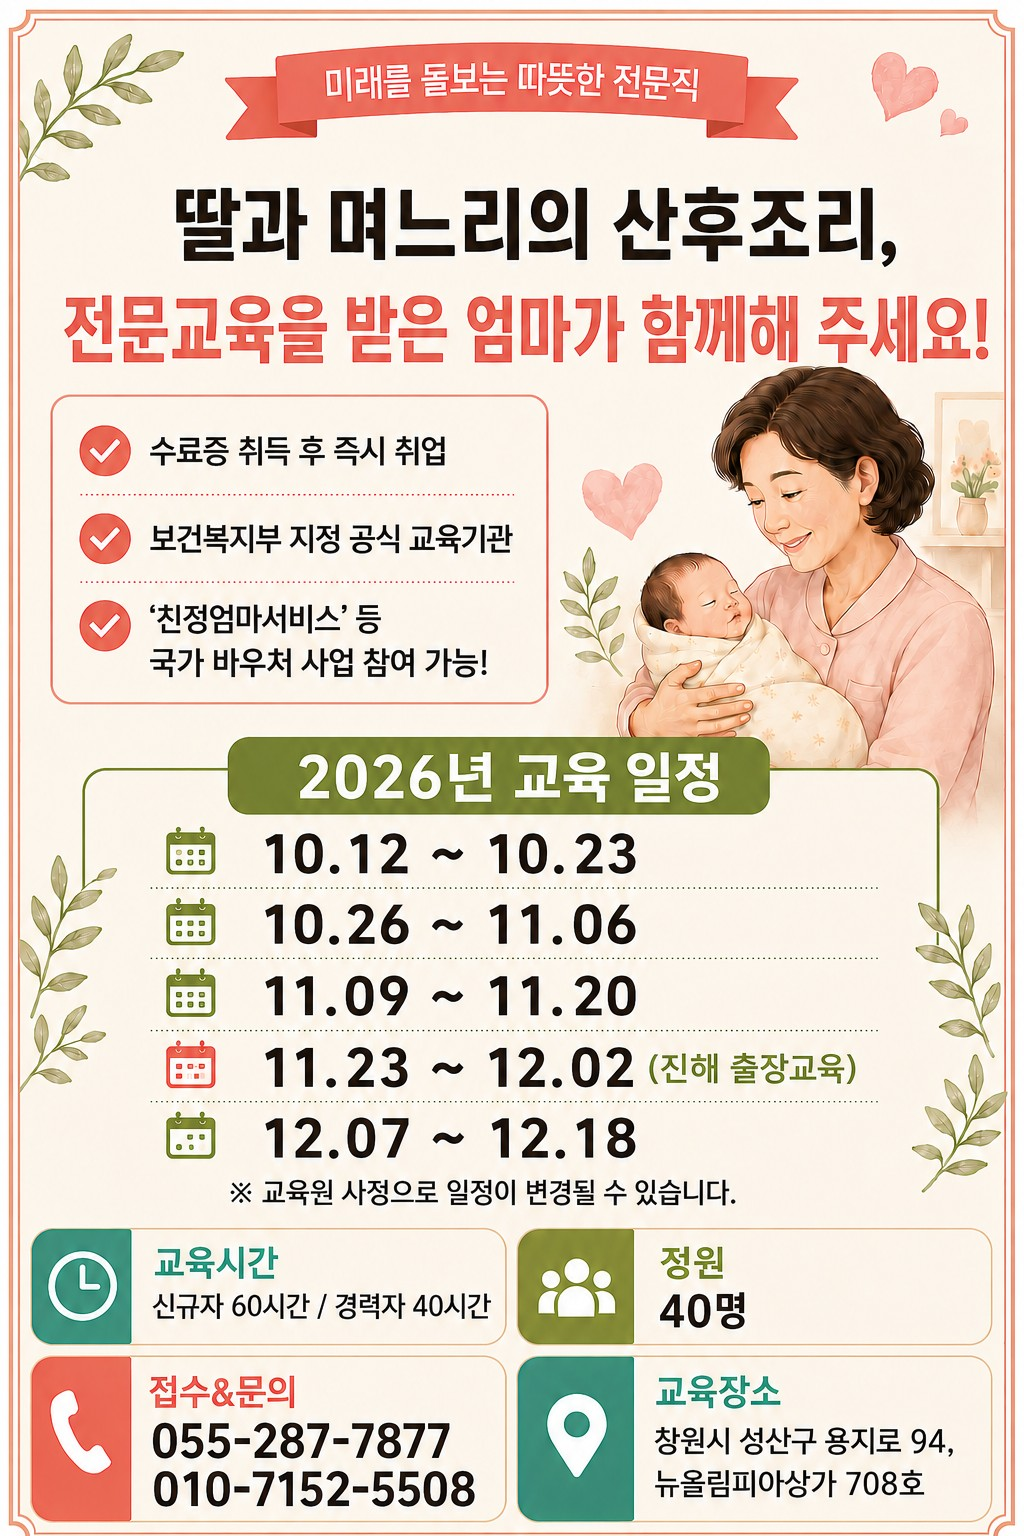
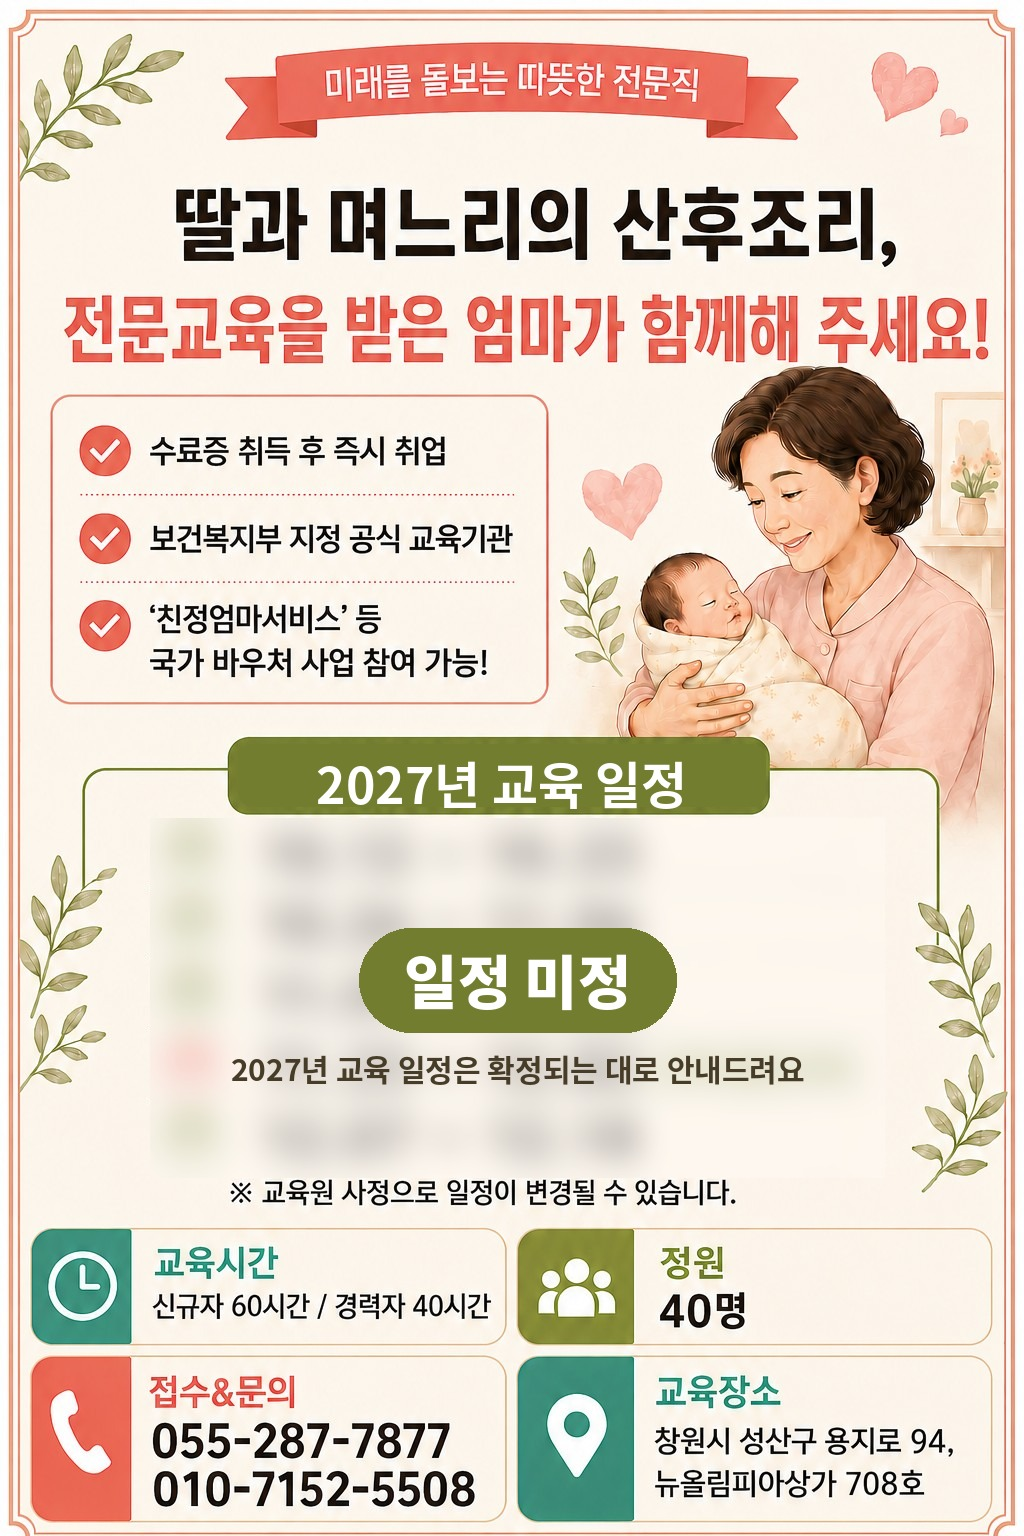
산모교실·양성교육 화면 새 테마 적용(베이지 배경 제거), 12월 산모교실 전단지로 교체, 양성교육 포스터 2027년·일정 미정 처리, 시작 화면 버튼을 상담 순서대로 정렬
Claude-Session: https://claude.ai/code/session_01X8fKRCz7XpFEBvYXedn9is

Changed region(s): [[0.1562, 0.4688, 0.8438, 0.7812]]

diff --git a/index.html b/index.html
@@ -790,11 +790,11 @@ figure.shot img{border-radius:22px;border-color:var(--line);box-shadow:0 10px 26
     <div class="lgtop">SINCE 1998</div>
     <div class="concern-l">산모님, 오늘 가장 궁금하신 것 하나만 골라주세요</div>
     <div class="covermenu cm4" id="concernMenu">
+      <button type="button" class="cms" data-cgo="day"><span class="cms-t">제공인력의 업무와 표준일정표</span><span class="cms-d">하는 일 · 하루 일정</span></button>
+      <button type="button" class="cms" data-cgo="company"><span class="cms-t">참사랑어머니회가 궁금해요</span><span class="cms-d">국내 최초 · 이용자 수 1위</span></button>
       <button type="button" class="cms" data-cgo="calc"><span class="cms-t">비용이 얼마인지</span><span class="cms-d">정부지원 · 본인부담금 바로 계산</span></button>
       <button type="button" class="cms" data-cgo="bigkid"><span class="cms-t">큰아이가 있어요</span><span class="cms-d">큰아이 추가요금 · 지급 방법</span></button>
-      <button type="button" class="cms" data-cgo="day"><span class="cms-t">제공인력의 업무와 표준일정표</span><span class="cms-d">하는 일 · 하루 일정</span></button>
       <button type="button" class="cms" data-cgo="family"><span class="cms-t">친정엄마 · 산모교실</span><span class="cms-d">가족 관리사 · 무료 산모교실</span></button>
-      <button type="button" class="cms" data-cgo="company"><span class="cms-t">참사랑어머니회가 궁금해요</span><span class="cms-d">국내 최초 · 이용자 수 1위</span></button>
     </div>
     <button class="btn pri go" id="startBtn" type="button">처음부터 순서대로</button>
     <div class="hint"><span class="kbd">→</span> 다음 · <span class="kbd">N</span> 대본 · <span class="kbd">F</span> 질문·문자 · 원하는 화면을 눌러 바로 시작할 수도 있어요</div>
@@ -1349,15 +1349,15 @@ function s_class(){
   '<div class="punch"><div class="lab">산모님께 드리는 혜택</div>' +
     '<div class="txt">참가비 <b class="hl">무료</b> · 준비된 <b class="hl">사은품</b>까지 — ' +
     '저희 서비스 예약은 안 하셔도 됩니다. <b>산모교실 신청만</b> 하시면 돼요.</div></div>' +
-  '<div class="classgrid">' + photo("poster-class.jpg","AI와 만드는 태교 동화","tall") +
+  '<div class="classgrid">' + photo("poster-class-dec.jpg","12월 산모교실 — 신생아 목욕법 & 크리스마스 트리 만들기","tall") +
     '<div class="gal" style="gap:10px;margin:0;">' + photo("class-flower.jpg","참사랑 산모교실 현장") +
     photo("class-scene.jpg","태교 꽃꽂이 산모교실") + '</div>' +
-    photo("poster-monthly.jpg","월간 산모교실 — 매월 마지막 주","tall") + '</div>' +
+    photo("poster-monthly.jpg","참사랑씨앤이 산모교실","tall") + '</div>' +
   script([
     "그리고 하나 더, 산모님께 드리는 혜택이 있어요. 저희가 무료 산모교실을 정기적으로 운영해요.",
     "저희 서비스 예약은 안 하셔도 돼요. 산모교실 신청만 하시면 무료로 참여하시고, 준비된 사은품도 받아 가세요.",
-    "이번에는 AI로 태교 동화를 만들어보는 시간이에요. 사진 보시면 매번 이렇게 많이 오세요.",
-    "매월 마지막 주에 열리니까, 카카오채널 친구추가 해두시면 일정을 알려드려요.",
+    "이번 12월에는 신생아 목욕법을 배우고, 크리스마스 트리도 직접 만들어 가져가세요. 사진 보시면 매번 이렇게 많이 오세요.",
+    "카카오채널 친구추가 해두시면 산모교실 일정이 잡힐 때마다 알려드려요.",
     "산모교실 오시면 사은품만이 아니라 실제 육아 정보도 실속 있게 얻어가실 수 있어요. 선배 산모님들 얘기도 듣고요."
   ], "<b>&lsquo;무료로 참여하고 사은품 받아 가세요&rsquo;</b>가 이 장의 전부입니다. " +
      "&lsquo;서비스 예약은 필요 없지만 산모교실 신청은 해야 한다&rsquo;를 헷갈리지 않게 말하세요.") +
@@ -1369,7 +1369,7 @@ function s_family(){
   return head("양성교육", "산모신생아 건강관리사 양성교육 — 가족도 가능합니다") +
   '<div class="punch"><div class="lab">참사랑만의 차이</div>' +
     '<div class="txt">교육 · 등록 · 바우처까지 <b class="hl">한 번에</b> · 어머니 수당 <b class="hl">경남 최대 수준</b> · <b>출산 전에 미리</b></div></div>' +
-  '<div class="gal g2 big">' + photo("poster-family.jpg","딸과 며느리의 산후조리 — 2026년 교육일정","tall") +
+  '<div class="gal g2 big">' + photo("poster-family.jpg","딸과 며느리의 산후조리 — 2027년 교육일정 (일정 미정)","tall") +
     photo("poster-extra.jpg","영유아 · 정리수납 · AI 실무 활용교육","tall") + '</div>' +
   script([
     "혹시 친정어머니나 시어머니가 집에 계시면서 도와주실 수 있는 상황이세요? 그러면 이 제도를 꼭 아셔야 해요.",
@@ -1381,7 +1381,7 @@ function s_family(){
     "산모·신생아 교육 들으시고 나서 영유아나 정리수납, AI 교육까지 이어서 들으실 수도 있고요.",
     "다만 교육 듣고 등록하는 데 시간이 걸려요. 그래서 출산 전에 미리 준비하셔야 해요."
   ], "베이비페어는 <b>어머니와 함께 오시는 경우가 많습니다.</b> " +
-     "포스터의 <b>교육 일정</b>을 짚고, <b>&lsquo;교육부터 행정까지 한 번에&rsquo;</b>와 <b>수당</b>을 꼭 말씀하세요.") +
+     "<b>2027년 교육 일정은 아직 미정</b>이에요 — 연락처를 받아두고 확정되면 안내드린다고 말씀하세요. <b>&lsquo;교육부터 행정까지 한 번에&rsquo;</b>와 <b>수당</b>을 꼭 말씀하세요.") +
   checklist("family", [
     "국가지원 받으며 근무 가능",
     "교육 → 제공인력 등록 → 바우처까지 한 번에",
@@ -2118,7 +2118,6 @@ function render(){
   document.getElementById("prevBtn").disabled = atStart;
   document.getElementById("prevBtn").style.opacity = atStart ? ".4" : "1";
   document.getElementById("nextBtn").textContent = (pos === v.length-1) ? "처음으로" : "다음 →";
-  document.body.classList.toggle('warmbg', STEPS[cur].render===s_family || STEPS[cur].render===s_class);
   renderNav(); renderMomBar(); refresh(); loadPhotos(); renderLogCount();
   if (STEPS[cur].render === s_reserve){
     var dn = document.getElementById("dateNoticeChk");
@@ -2254,7 +2253,7 @@ document.addEventListener("input", function(e){
 document.addEventListener("click", function(e){
   var cg = e.target.closest ? e.target.closest("[data-cgo]") : null;
   if (cg){
-    var CGO = {calc:s_calc, bigkid:s_bigkid, day:s_service, company:s_company, family:s_family};
+    var CGO = {calc:s_calc, bigkid:s_bigkid, day:s_service, company:s_company, family:s_class};
     startAt(stepIndexOf(CGO[cg.dataset.cgo])); return;
   }
   var bk = e.target.closest ? e.target.closest("[data-bk]") : null;
